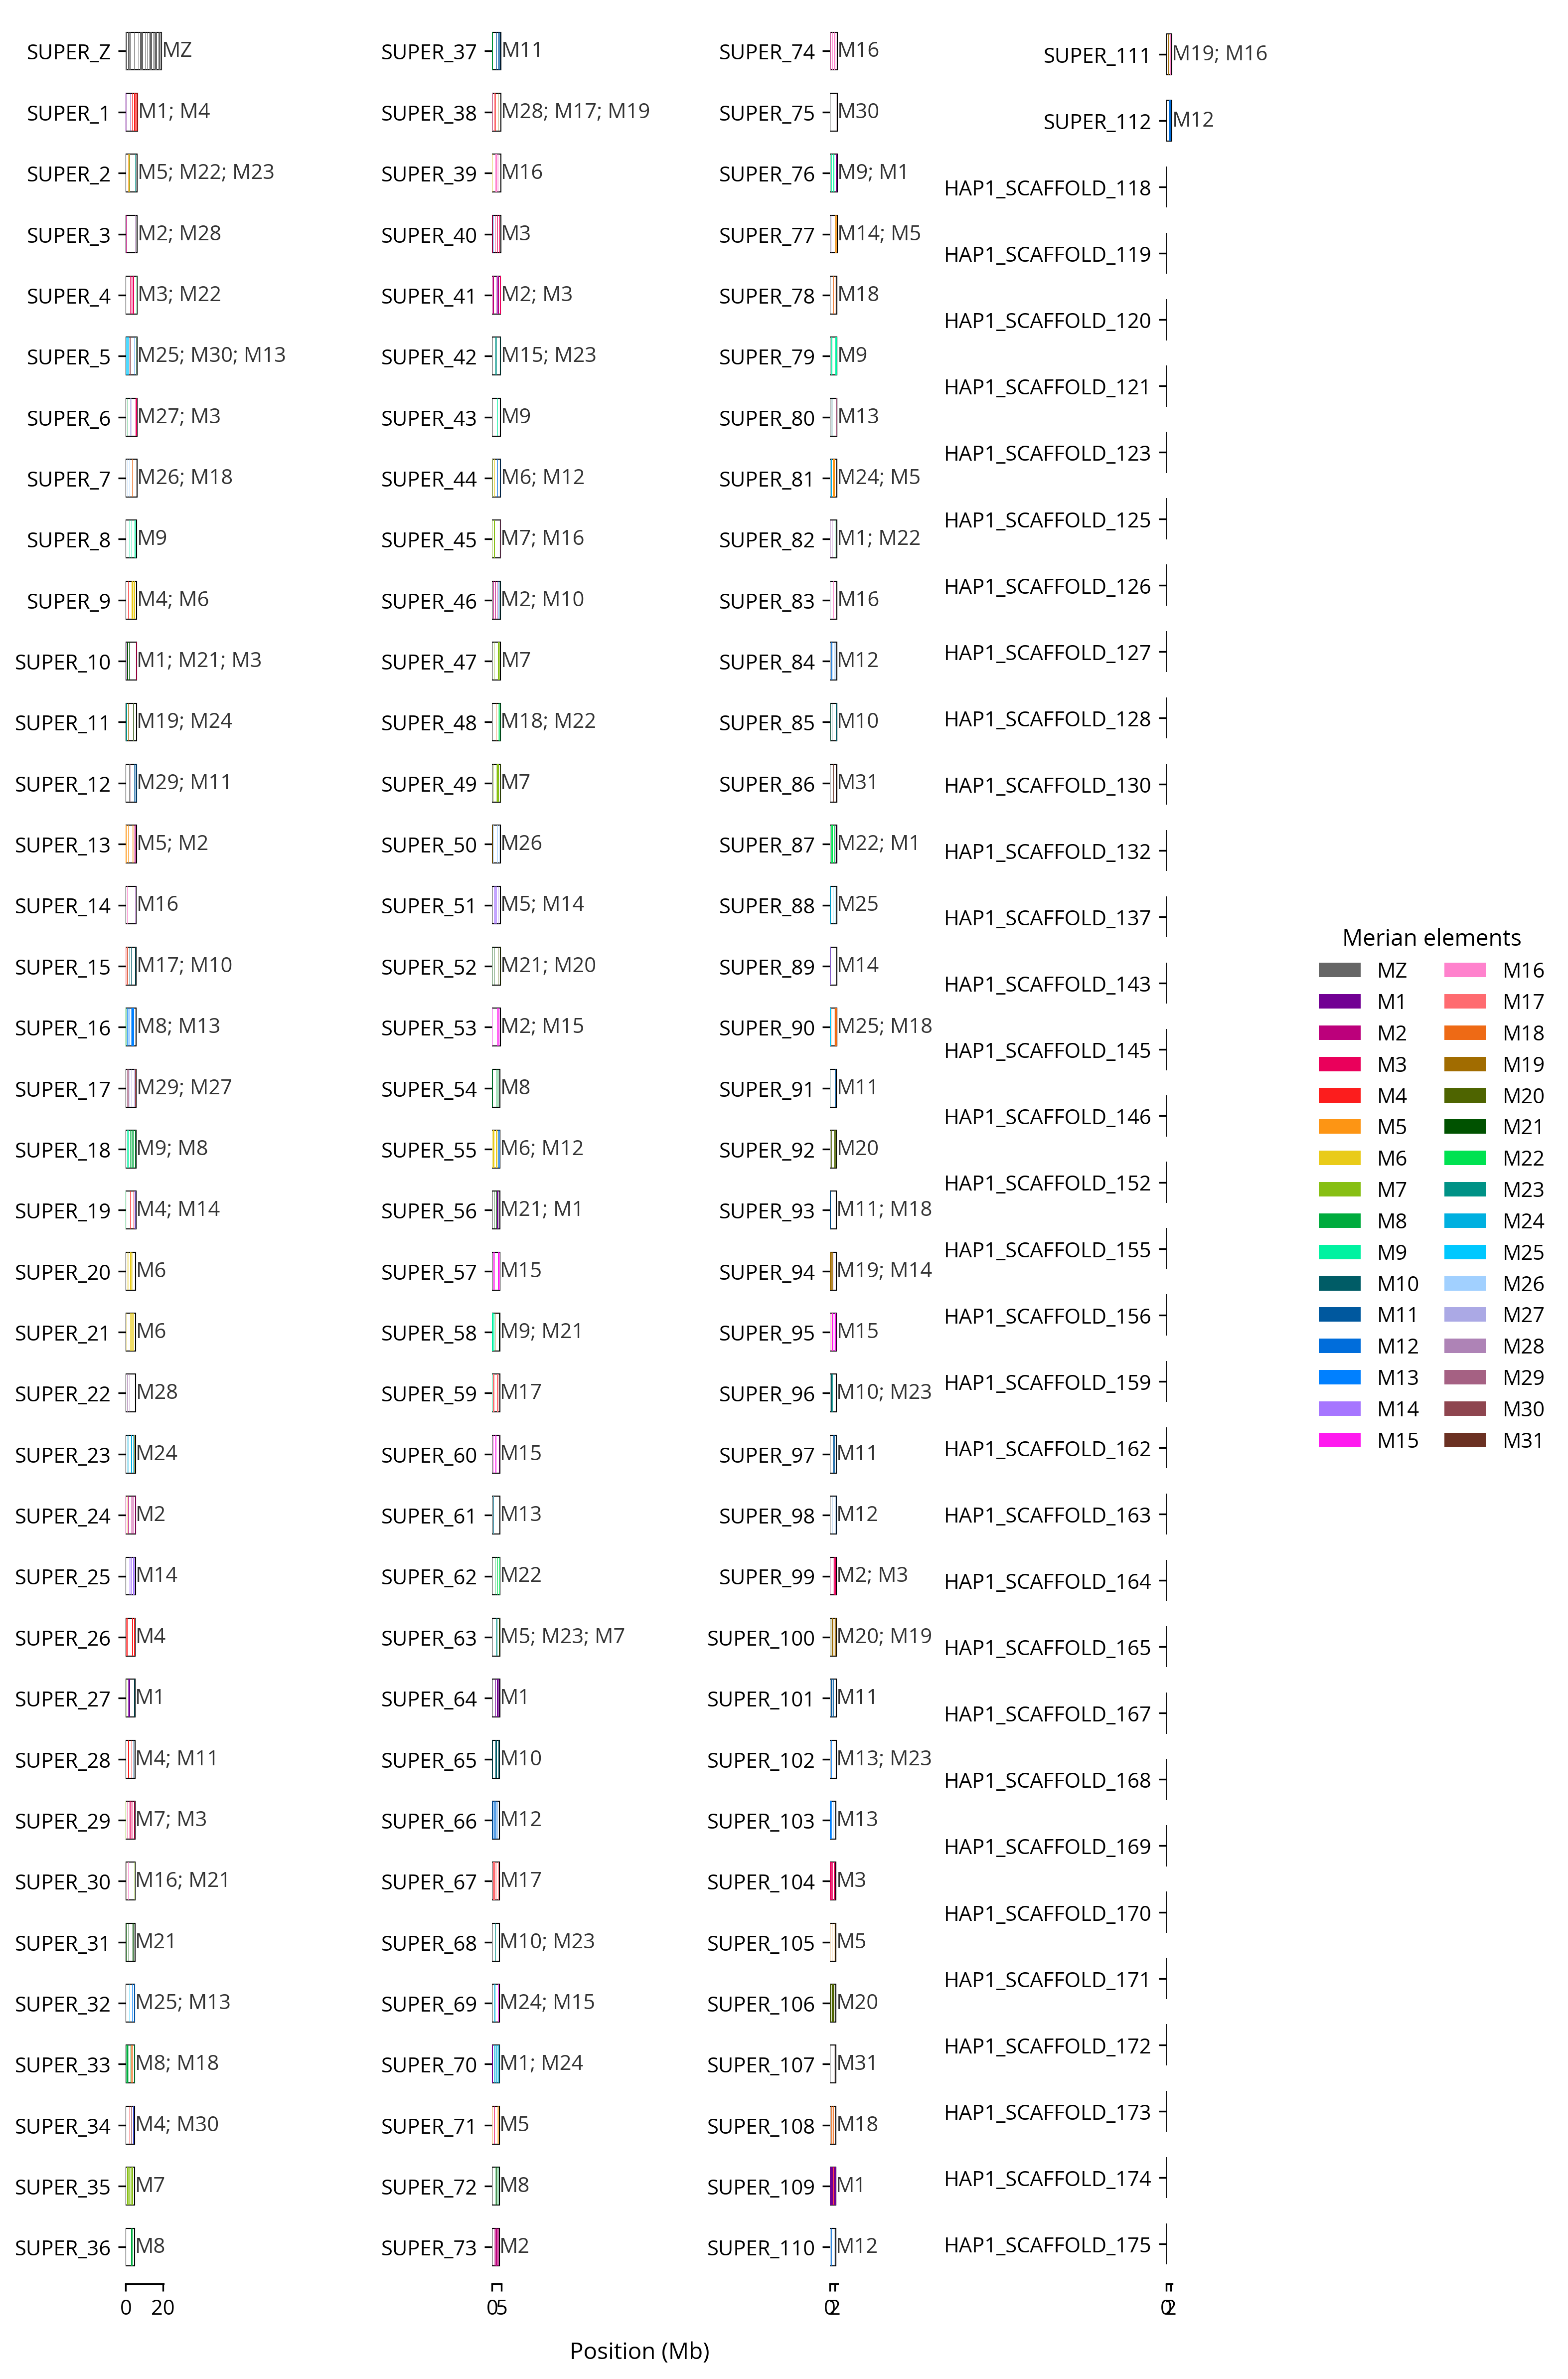
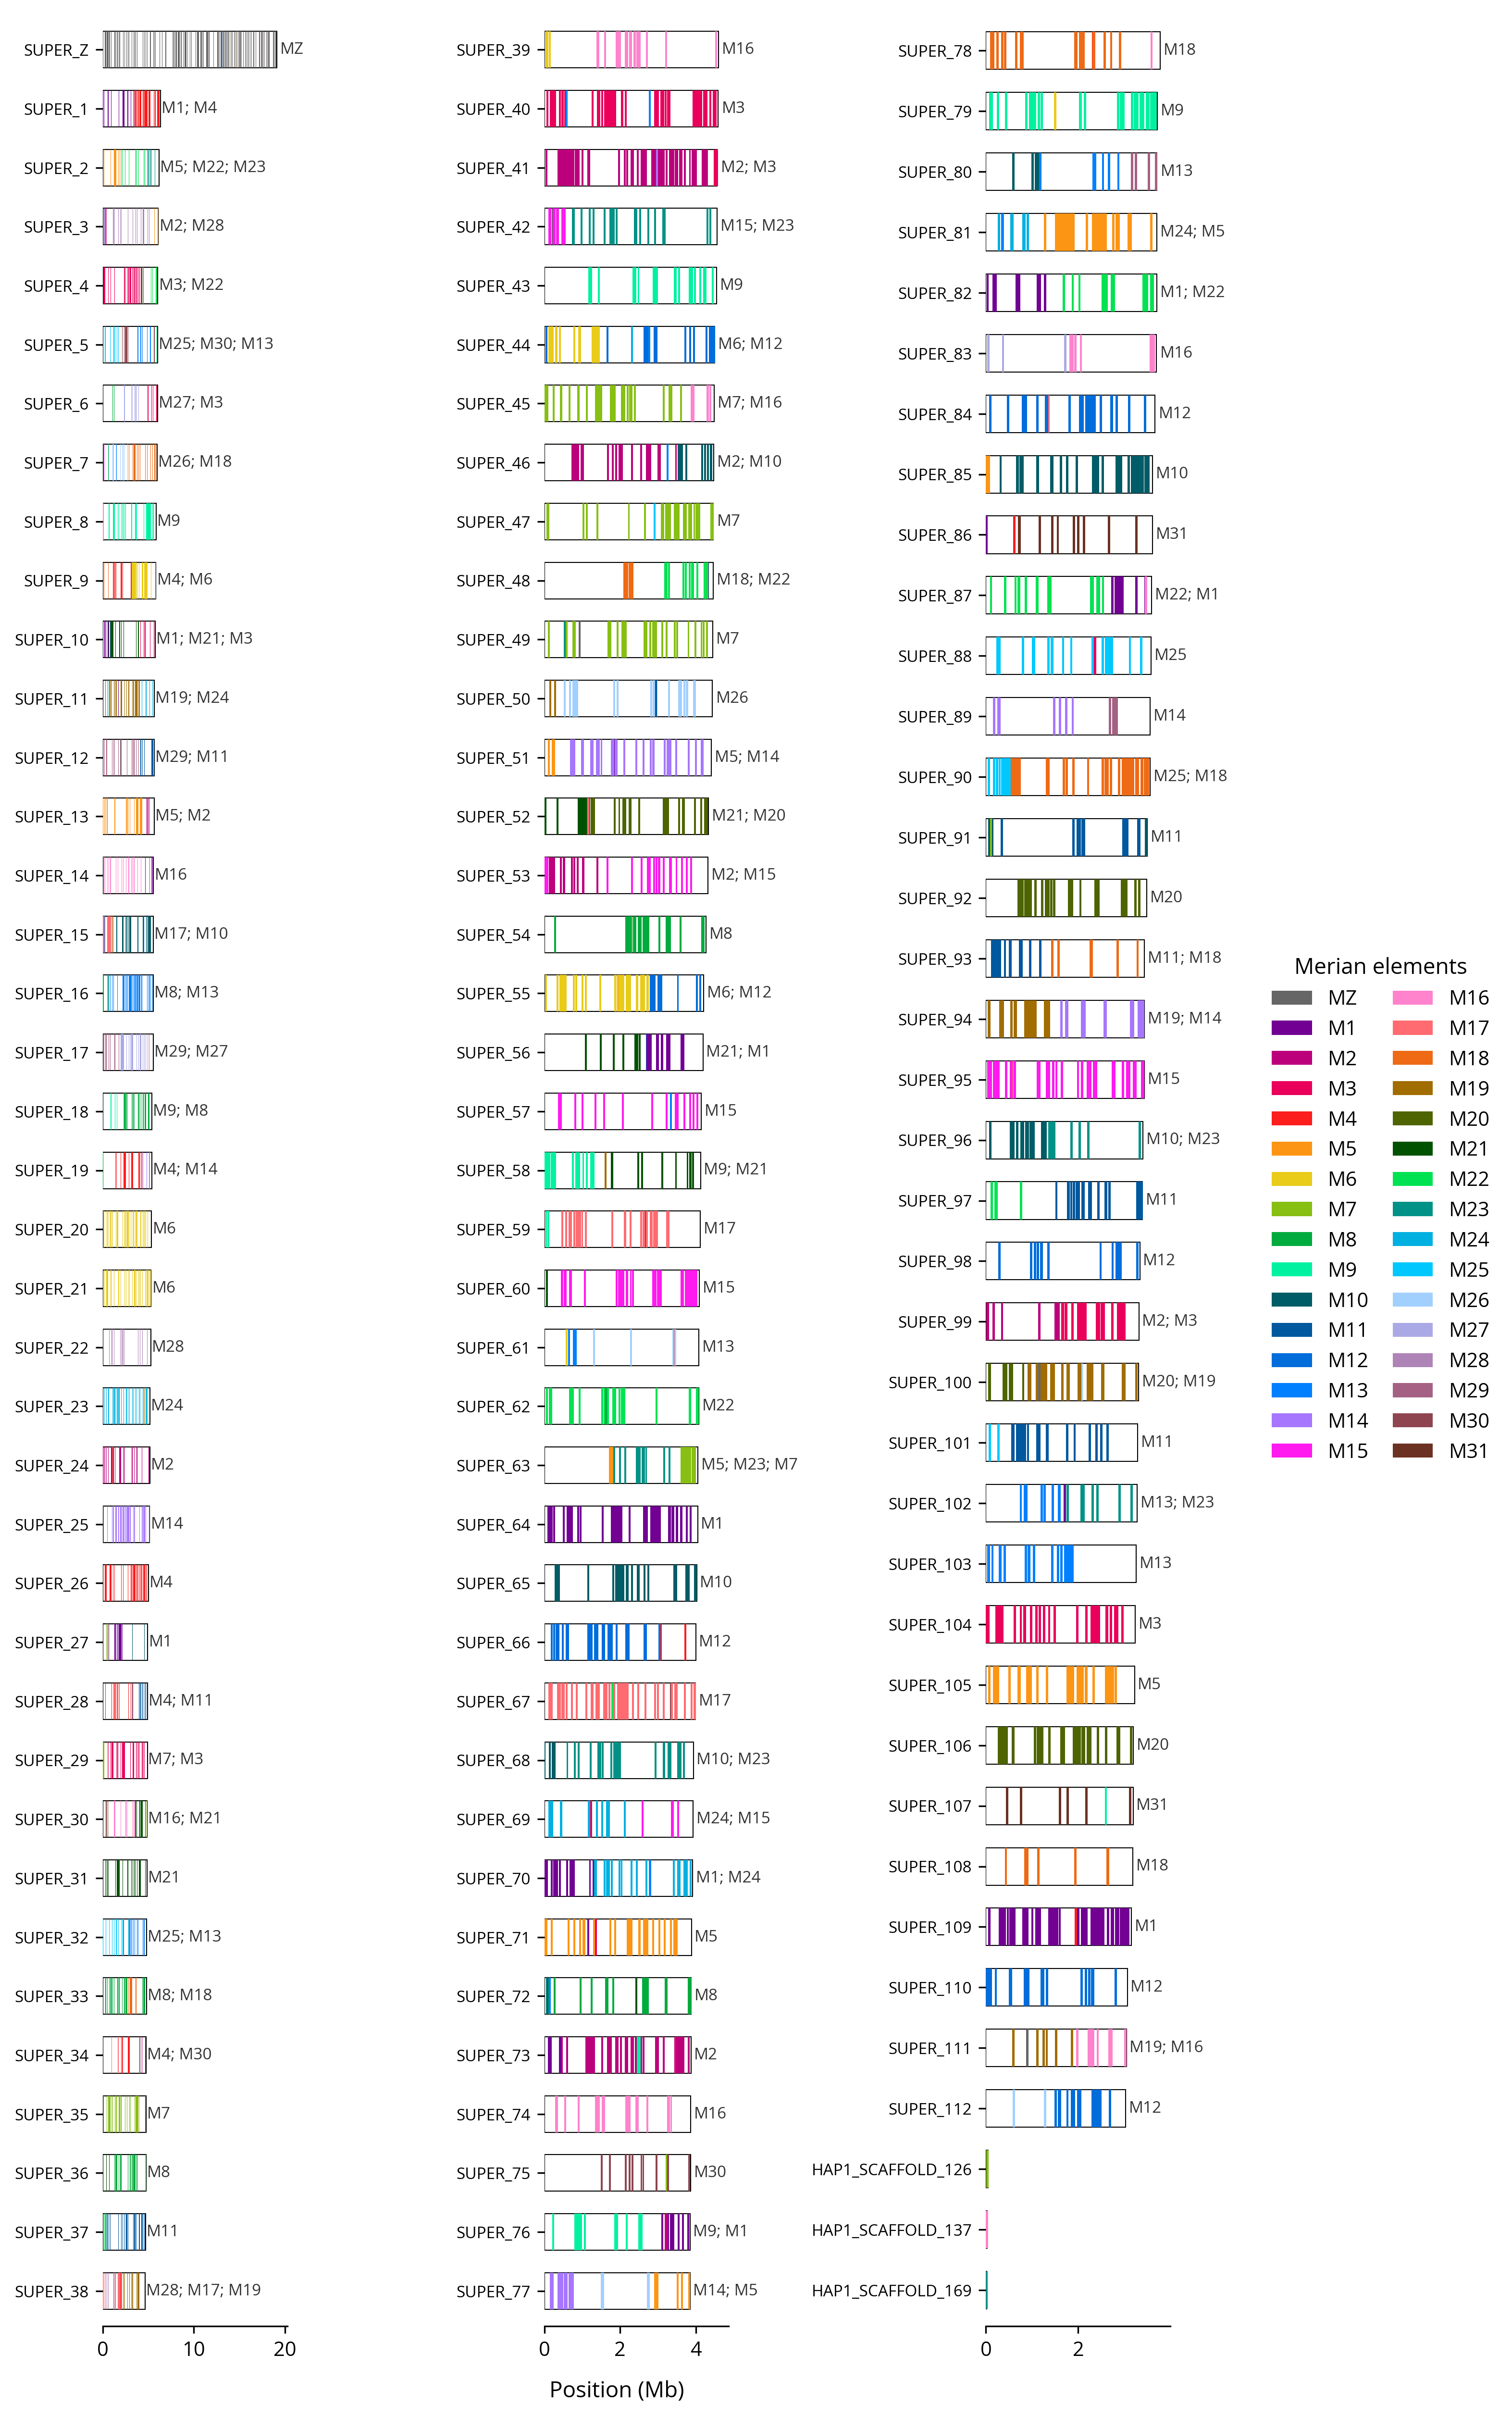
Add max panels option

diff --git a/plot_buscopainter.py b/plot_buscopainter.py
@@ -15,7 +15,8 @@ DEFAULT_PANEL_SIZE = 20
 PLOT_BODY_WIDTH_CM = 22
 ROW_HEIGHT_CM = 1.10
 MIN_PLOT_HEIGHT_CM = 18
-MAX_PANEL_COLUMNS = 4
+MAX_PANEL_COLUMNS = 3
+COMPACT_LABEL_THRESHOLD = 80
 
 def resolve_open_sans_font(env_var="GENOMENOTES_FONT"):
     """Locate a regular Open Sans font file.
@@ -118,10 +119,18 @@ def load_data(location_file, lengths_file=None):
     return locations, chrom_lengths
 
 def filter_chromosomes(locations, minimum_buscos=3):
-    """Filter chromosomes by minimum BUSCO count"""
-    busco_counts = locations.groupby('query_chr').size().reset_index(name='n_busco')
+    """Filter chromosomes by minimum BUSCO count, keeping accession placeholders."""
+    is_placeholder = locations['buscoID'] == 'NA'
+    busco_counts = (
+        locations[~is_placeholder]
+        .groupby('query_chr')
+        .size()
+        .reset_index(name='n_busco')
+    )
     valid_chroms = busco_counts[busco_counts['n_busco'] >= minimum_buscos]['query_chr']
-    return locations[locations['query_chr'].isin(valid_chroms)]
+    placeholder_chroms = locations.loc[is_placeholder, 'query_chr']
+    keep_chroms = set(valid_chroms).union(placeholder_chroms)
+    return locations[locations['query_chr'].isin(keep_chroms)]
 
 def calculate_merian_labels(locations, threshold=5):
     """
@@ -237,12 +246,12 @@ def get_merian_colors_merianbow4():
     return colors
 
 def plot_merian_chromosomes(locations, chrom_lengths, output_prefix, minimum_buscos=3,
-                           palette='categorical', label_threshold=5, panel_size=DEFAULT_PANEL_SIZE):
+                           palette='categorical', label_threshold=5,
+                           panel_size=DEFAULT_PANEL_SIZE, max_columns=MAX_PANEL_COLUMNS):
     """Create the main Merian plot with chromosome labels"""
     setup_font()
     
-    # Filter by minimum BUSCOs, but keep track of all chromosomes from chrom_lengths
-    # This ensures sex chromosomes (like W) are always plotted even if empty
+    # Filter by minimum BUSCOs before deciding which rows to plot.
     locations_filtered = filter_chromosomes(locations, minimum_buscos)
     
     # Keep track of placeholder rows (where buscoID is NA)
@@ -255,17 +264,31 @@ def plot_merian_chromosomes(locations, chrom_lengths, output_prefix, minimum_bus
     ]
     locations_filtered['assigned_chr'] = locations_filtered['assigned_chr'].str.upper()
     
-    # Use filtered locations for calculating labels, but keep all chromosomes for plotting
+    # Use filtered locations for calculating labels and plotted rows.
     locations = locations_filtered
+
+    if locations.empty:
+        raise ValueError(
+            f"No chromosomes/scaffolds have at least {minimum_buscos} BUSCOs"
+        )
+
+    plotted_chroms = set(locations['query_chr'].dropna().unique())
+    chrom_lengths = chrom_lengths[chrom_lengths['query_chr'].isin(plotted_chroms)].copy()
+
+    if chrom_lengths.empty:
+        raise ValueError("No plotted chromosomes/scaffolds have matching lengths")
     
     # Calculate Merian labels for each chromosome
     merian_labels = calculate_merian_labels(locations, threshold=label_threshold)
     
-    # Order chromosomes by length (descending) - USE ALL CHROMOSOMES FROM chrom_lengths
+    # Order chromosomes by length (descending)
     chrom_order = chrom_lengths.sort_values('length', ascending=False)['query_chr'].tolist()
-    # DO NOT FILTER - keep all chromosomes even if they have no BUSCOs
     
     n_chroms = len(chrom_order)
+    print(
+        f"[INFO] Plotting {len(locations)} BUSCOs across "
+        f"{n_chroms} chromosomes/scaffolds after filtering..."
+    )
     
     # Get colors based on palette choice
     if palette == 'spectrum':
@@ -282,8 +305,11 @@ def plot_merian_chromosomes(locations, chrom_lengths, output_prefix, minimum_bus
         print("[INFO] Using categorical palette")
 
     panel_size = max(1, int(panel_size))
-    ncols = min(MAX_PANEL_COLUMNS, max(1, math.ceil(n_chroms / panel_size)))
+    max_columns = max(1, int(max_columns))
+    ncols = min(max_columns, max(1, math.ceil(n_chroms / panel_size)))
     chroms_per_panel = max(1, math.ceil(n_chroms / ncols))
+    compact_layout = n_chroms > COMPACT_LABEL_THRESHOLD
+    label_fontsize = 8 if compact_layout else 10
     panel_height = max(
         MIN_PLOT_HEIGHT_CM,
         ROW_HEIGHT_CM * min(chroms_per_panel, max(1, n_chroms))
@@ -305,13 +331,14 @@ def plot_merian_chromosomes(locations, chrom_lengths, output_prefix, minimum_bus
             panel_limits.append(1.0)
 
     fig_width = PLOT_BODY_WIDTH_CM / 2.54
+    panel_widths = [1] * ncols if compact_layout else panel_limits
 
     fig, axes = plt.subplots(
         nrows=1,
         ncols=ncols,
         figsize=(fig_width, panel_height / 2.54),
         squeeze=False,
-        gridspec_kw={'width_ratios': panel_limits}
+        gridspec_kw={'width_ratios': panel_widths}
     )
     axes = axes[0]
 
@@ -347,7 +374,7 @@ def plot_merian_chromosomes(locations, chrom_lengths, output_prefix, minimum_bus
             if chrom in merian_labels:
                 label_text = merian_labels[chrom]
                 ax.text(length * (1 + LABEL_OFFSET_FACTOR), y, label_text,
-                        va='center', ha='left', fontsize=10,
+                        va='center', ha='left', fontsize=label_fontsize,
                         color='#333333')
 
         ax.set_xlim(0, panel_limit)
@@ -355,7 +382,7 @@ def plot_merian_chromosomes(locations, chrom_lengths, output_prefix, minimum_bus
         ax.set_xlabel('')
         ax.xaxis.set_major_formatter(plt.FuncFormatter(lambda x, p: f'{x/1e6:.0f}'))
         ax.set_yticks([y_positions[c] for c in panel_chroms])
-        ax.set_yticklabels(panel_chroms, fontsize=10)
+        ax.set_yticklabels(panel_chroms, fontsize=label_fontsize)
         ax.set_ylabel('')
         ax.spines['top'].set_visible(False)
         ax.spines['right'].set_visible(False)
@@ -402,16 +429,21 @@ def main():
                        help='Minimum BUSCOs for a Merian to appear in chromosome label (default: 5)')
     parser.add_argument('--panel-size', type=int, default=DEFAULT_PANEL_SIZE,
                        help=f'Target chromosomes/scaffolds per panel before splitting into columns (default: {DEFAULT_PANEL_SIZE})')
+    parser.add_argument('--max-columns', type=int, default=MAX_PANEL_COLUMNS,
+                       help=f'Maximum number of plot columns; use 1 for a single panel (default: {MAX_PANEL_COLUMNS})')
     
     args = parser.parse_args()
     
     print("[INFO] Loading data...")
     locations, chrom_lengths = load_data(args.file, args.lengths)
     
-    print(f"[INFO] Plotting {len(locations)} BUSCOs across {len(chrom_lengths)} chromosomes...")
+    print(
+        f"[INFO] Loaded {len(locations)} BUSCOs and "
+        f"{len(chrom_lengths)} chromosome/scaffold lengths..."
+    )
     plot_merian_chromosomes(locations, chrom_lengths, args.prefix,
                            args.minimum, args.palette, args.label_threshold,
-                           args.panel_size)
+                           args.panel_size, args.max_columns)
     
     print("[INFO] Done.")
 

diff --git a/README.md b/README.md
@@ -91,7 +91,7 @@ real scaffold lengths by passing a `.fai` file to `plot_buscopainter.py` with
 `--lengths`. In this mode, plotted names come directly from the sequence
 identifiers in the BUSCO table and `.fai` index, and scaffold lengths come from
 the index. Because the `.fai` defines the plotting units, scaffold entries from
-that index may appear as separate plotted rows.
+that index may appear as separate plotted rows when they pass `--minimum`.
 
 The plotting step accepts either the NCBI-derived `chrom_lengths.tsv` written
 by `buscopainter.py` or a standard `.fai` index. Estimating lengths directly
@@ -119,7 +119,8 @@ python3 plot_buscopainter.py \
   --minimum 1 \
   --palette merianbow4 \
   --label-threshold 5 \
-  --panel-size 20
+  --panel-size 20 \
+  --max-columns 2
 ```
 
 In this mode:
@@ -149,15 +150,16 @@ python3 plot_buscopainter.py \
   --minimum 1 \
   --palette merianbow4 \
   --label-threshold 5 \
-  --panel-size 20
+  --panel-size 20 \
+  --max-columns 3
 ```
 
 In this mode:
 
 - `buscopainter.py` does not fetch chromosome lengths
 - `plot_buscopainter.py` uses a local `.fai` as `--lengths`
-- the plotted units come from the sequence names in the `.fai`
-- scaffolds in the index can appear as separate plotted rows
+- the plotted units come from sequence names in the `.fai` that pass `--minimum`
+- scaffold entries from the index can appear as separate plotted rows
 
 Do not mix these routes. In particular:
 
@@ -177,7 +179,8 @@ If an assembly has many chromosomes, `plot_buscopainter.py` can split the figure
 into columns automatically. `--panel-size` sets the target number of
 chromosomes/scaffolds per column. The default is `20`, so most Lepidoptera
 chromosome-scale assemblies are plotted as two columns. Very large scaffold
-sets are capped at four columns and made taller instead of becoming very wide.
+sets are capped at three columns by default and made taller instead of becoming
+very wide. Use `--max-columns 1` to force a single-panel plot.
 
 
 ## Batch workflow
@@ -263,10 +266,12 @@ against their true lengths. Plotted rows come from sequence identifiers in the
   extent only.
 - The plotting script labels each scaffold/chromosome with Merian elements that
   meet the `--label-threshold`.
-- Large chromosome sets can be split across columns with `--panel-size`; panel
-  widths shrink or expand to fit their local x-axis range while preserving a
-  common Mb scale across the whole figure. The current layout favours a
-  narrower, taller figure for print and web use.
+- Large chromosome sets can be split across columns with `--panel-size` and
+  capped with `--max-columns`.
+  Chromosome-scale plots preserve a common Mb scale across panels; large
+  scaffold-heavy plots use equal-width panels so shorter scaffolds stay
+  legible. The current layout favours a narrower, taller figure for print and
+  web use.
 - If Open Sans is available locally it will be used automatically; otherwise
   matplotlib's default sans-serif font is used.
 